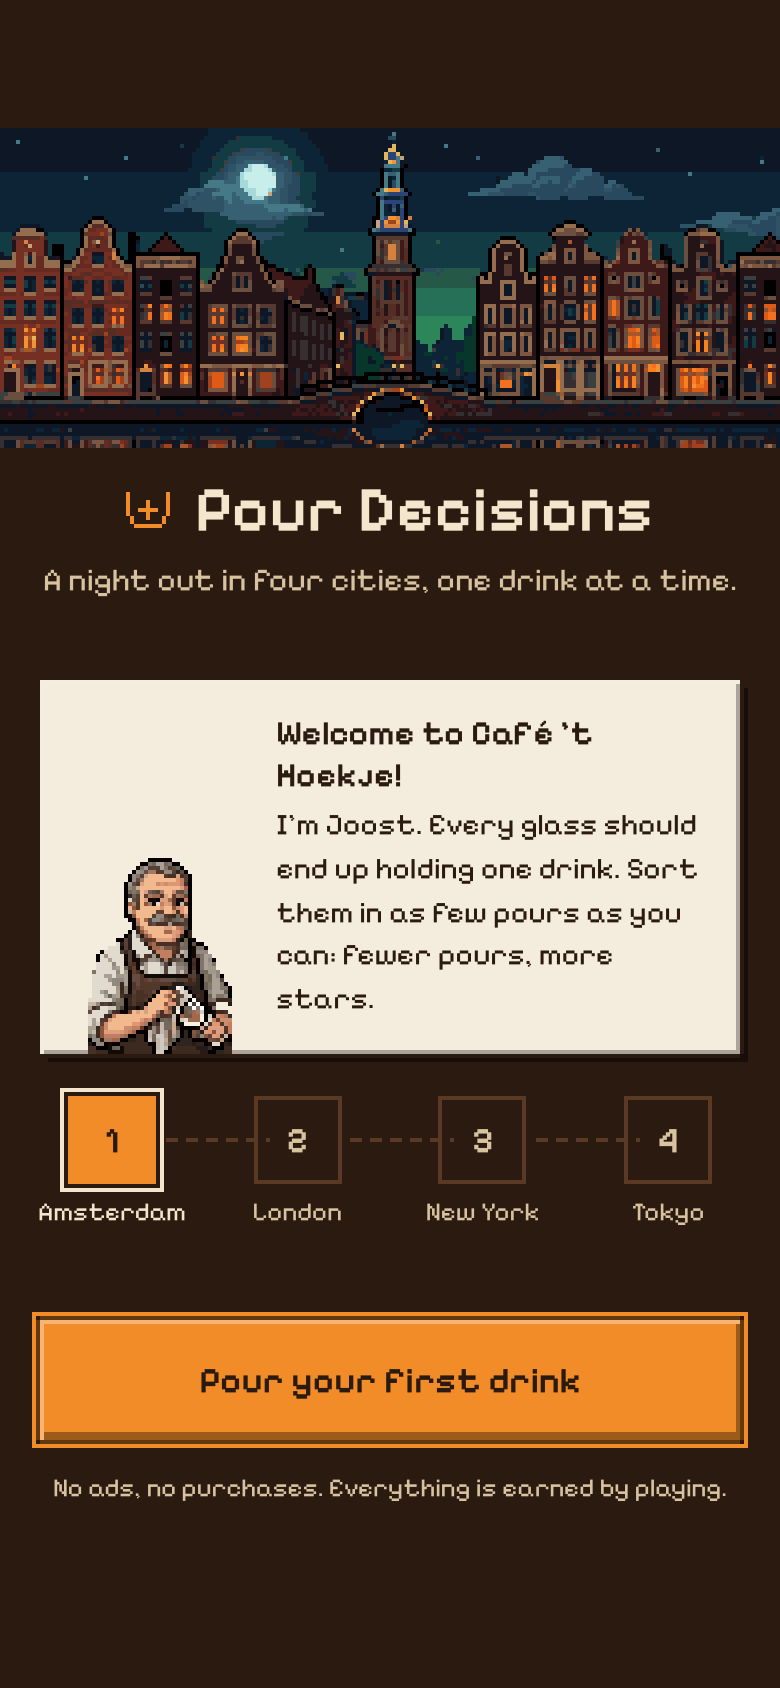
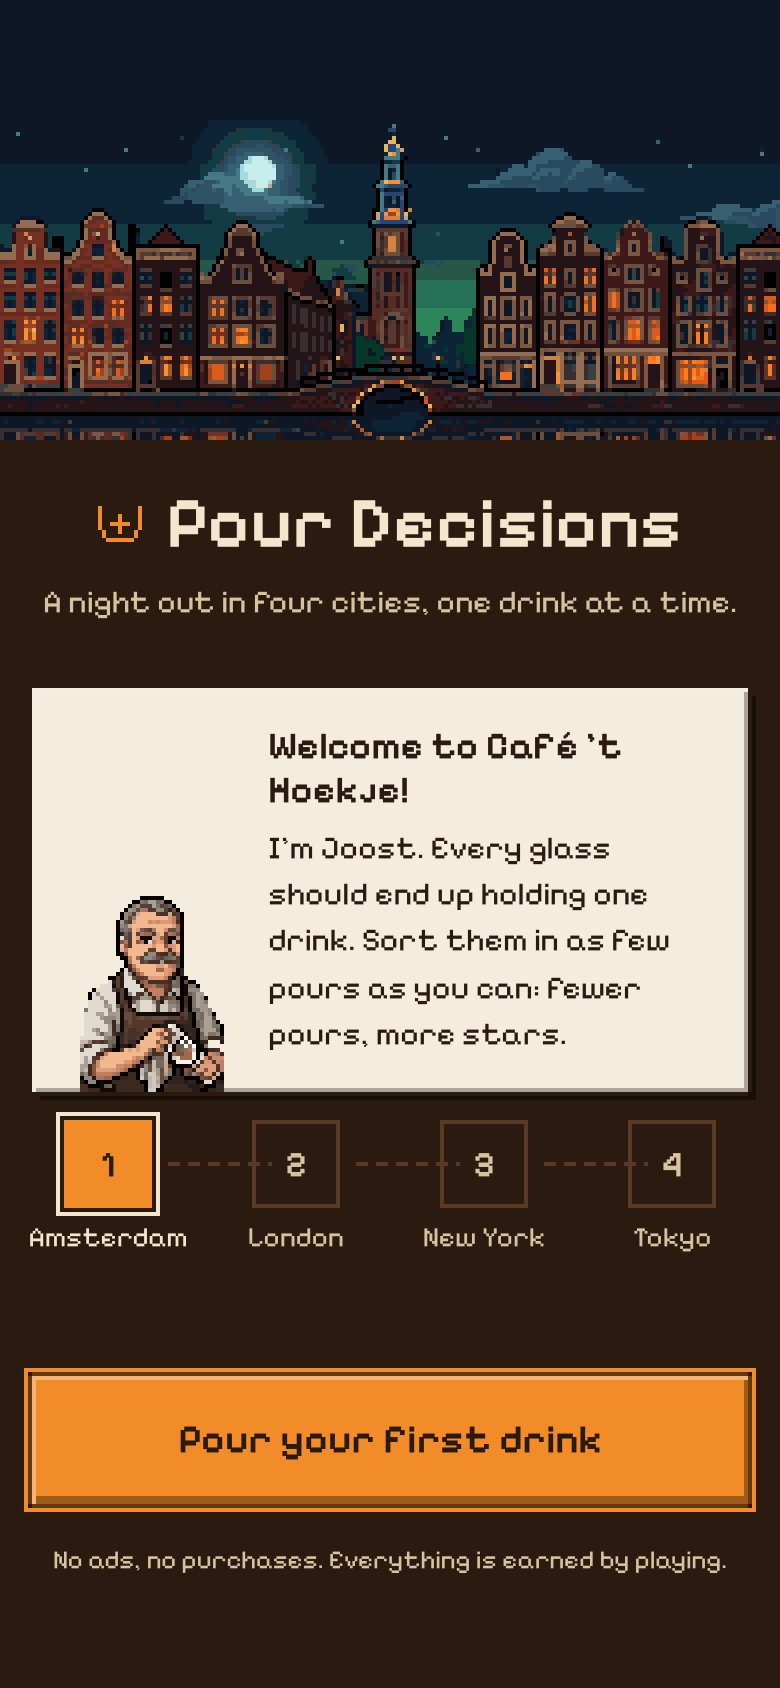
Welcome fills tall screens; tab note clears the tabs; reward boxes centred
The welcome's night scene now reaches the top and sides of the screen (the
city mirrored past its edges, its sky continued up), the type is larger, and
the button sits near the bottom of the screen however tall it is. The stage
exposes --bleed-t/l/r for layouts like this.

The 'opens after' note for a locked tab now sits above the tab bar on the
map too, instead of over the tabs. Two reward boxes on the complete screen
are centred.

diff --git a/apps/web/src/welcome.ts b/apps/web/src/welcome.ts
@@ -2,9 +2,14 @@ import { themes, type Theme } from '@pour/themes';
 import type { Progress } from './economy/save.js';
 import { esc, icons } from './icons.js';
 import { BARTENDER_NAMES, bartenderImg } from './pixel/bartenders.js';
-import { landmarkUrl } from './pixel/landmarks.js';
-import type { Stage } from './stage.js';
+import { PixelCanvas } from './pixel/canvas.js';
+import { landmarkFor } from './pixel/landmarks.js';
+import { dataUrl } from './pixel/scenes.js';
+import { ART, type Stage } from './stage.js';
 import { applyTheme } from './theme-css.js';
+
+/** Art pixels between the top of the stage and the top of the city scene. */
+const SKY_TOP = 30;
 
 /**
  * First launch: what the game is, in the first bartender's words, and one button that goes
@@ -12,6 +17,7 @@ import { applyTheme } from './theme-css.js';
  */
 export class WelcomeScreen {
   readonly el = document.createElement('div');
+  private offResize: (() => void) | null = null;
 
   constructor(
     private readonly stage: Stage,
@@ -27,7 +33,7 @@ export class WelcomeScreen {
     const k = t.colors;
     applyTheme(this.stage.el, t);
     this.stage.el.replaceChildren(this.el);
-    const scene = landmarkUrl(t.id);
+    const scene = await landmarkFor(t.id);
     const name = BARTENDER_NAMES[t.id];
     const logo = icons.glass(k.accent).replace('width="26" height="26"', 'width="40" height="40"');
     const route = themes
@@ -37,7 +43,7 @@ export class WelcomeScreen {
       )
       .join('');
     this.el.innerHTML = `
-      ${scene ? `<img class="wl-scene px-img" src="${scene}" width="390" height="160" alt="">` : ''}
+      <div class="wl-sky" aria-hidden="true"></div>
       <div class="wl-title">
         <h1>${logo}<span>Pour Decisions</span></h1>
         <p>A night out in four cities, one drink at a time.</p>
@@ -55,10 +61,45 @@ export class WelcomeScreen {
       location.hash = '#/level/1';
     });
     this.el.querySelector<HTMLElement>('.wl-go')!.focus();
+    if (scene) {
+      const draw = () => this.drawSky(scene);
+      draw();
+      this.offResize = this.stage.onResize(draw);
+    }
     this.el.dataset.ready = 'true';
   }
 
   destroy(): void {
+    this.offResize?.();
     this.el.remove();
+  }
+
+  /**
+   * The city at night, reaching the screen's top and sides: mirrored past its left and right
+   * edges (as on the map), and its sky continued up to the top of the screen.
+   */
+  private drawSky(scene: PixelCanvas): void {
+    const { l, r, t } = this.stage.bleed;
+    const above = t + SKY_TOP;
+    const w = scene.w + l + r;
+    const cv = new PixelCanvas(w, above + scene.h);
+    // The sky above is the scene's commonest top-row colour (a spire touching the top would
+    // otherwise be stretched up the screen).
+    const counts = new Map<string, number>();
+    for (let x = 0; x < scene.w; x++) {
+      const c = scene.get(x, 0);
+      if (c) counts.set(c, (counts.get(c) ?? 0) + 1);
+    }
+    const sky = [...counts].sort((a, b) => b[1] - a[1])[0]?.[0];
+    if (sky) cv.rect(0, 0, w, above, sky);
+    for (let x = 0; x < w; x++) {
+      let sx = x - l;
+      if (sx < 0) sx = -sx - 1;
+      if (sx >= scene.w) sx = 2 * scene.w - sx - 1;
+      sx = Math.max(0, Math.min(scene.w - 1, sx));
+      for (let y = 0; y < scene.h; y++) cv.px(x, above + y, scene.get(sx, y));
+    }
+    this.el.querySelector<HTMLElement>('.wl-sky')!.innerHTML =
+      `<img class="px-img" src="${dataUrl(cv)}" width="${w * ART}" height="${cv.h * ART}" alt="">`;
   }
 }

diff --git a/apps/web/src/style.css b/apps/web/src/style.css
@@ -2558,16 +2558,23 @@ input {
 .welcome-screen {
   color: var(--c-text);
 }
-.wl-scene {
+/* The night sky and the city reach the top and sides of the screen; the scene's street ends at
+   220 px on the stage. */
+.wl-sky {
   position: absolute;
-  left: 0;
-  top: 64px;
+  left: calc(-1 * var(--bleed-l, 0px));
+  top: calc(-1 * var(--bleed-t, 0px));
+  pointer-events: none;
+}
+.wl-sky img {
+  display: block;
+  image-rendering: pixelated;
 }
 .wl-title {
   position: absolute;
-  left: 20px;
-  right: 20px;
-  top: 236px;
+  left: 16px;
+  right: 16px;
+  top: 240px;
   text-align: center;
 }
 .wl-title h1 {
@@ -2575,21 +2582,21 @@ input {
   align-items: center;
   justify-content: center;
   gap: 12px;
-  font-size: 32px;
+  font-size: 36px;
   font-weight: 600;
 }
 .wl-title p {
-  margin-top: 6px;
+  margin-top: 8px;
   font-size: 16px;
   color: var(--c-muted);
 }
 .wl-host {
   position: absolute;
-  left: 20px;
-  right: 20px;
-  top: 340px;
-  min-height: 156px;
-  padding: 16px 16px 16px 118px;
+  left: 16px;
+  right: 16px;
+  top: 344px;
+  min-height: 172px;
+  padding: 18px 16px 18px 118px;
   --px-face: #f4ecdd;
   --px-edge: #2a1a10;
   color: #2a1a10;
@@ -2600,19 +2607,19 @@ input {
   bottom: 0;
 }
 .wl-host h2 {
-  font-size: 17px;
+  font-size: 19px;
   font-weight: 600;
 }
 .wl-host p {
-  margin-top: 4px;
-  font-size: 15px;
+  margin-top: 6px;
+  font-size: 16px;
   line-height: 1.45;
 }
 .wl-route {
   position: absolute;
-  left: 20px;
-  right: 20px;
-  top: 548px;
+  left: 16px;
+  right: 16px;
+  top: 560px;
   margin: 0;
   padding: 0;
   list-style: none;
@@ -2621,12 +2628,12 @@ input {
 }
 .wl-stop {
   position: relative;
-  width: 72px;
+  width: 76px;
   display: flex;
   flex-direction: column;
   align-items: center;
   gap: 6px;
-  font-size: 13px;
+  font-size: 14px;
   color: var(--c-muted);
 }
 /* A dashed road between the stops. */
@@ -2658,19 +2665,20 @@ input {
     0 0 0 2px #2a1a10,
     0 0 0 4px var(--c-text);
 }
+/* The button sits near the bottom of the screen, however tall it is. */
 .wl-go {
   position: absolute;
-  left: 20px;
-  right: 20px;
-  top: 660px;
-  height: 60px;
-  font-size: 18px;
+  left: 16px;
+  right: 16px;
+  bottom: calc(92px - var(--stick-b, 0px));
+  height: 64px;
+  font-size: 20px;
 }
 .wl-note {
   position: absolute;
-  left: 20px;
-  right: 20px;
-  top: 736px;
+  left: 16px;
+  right: 16px;
+  bottom: calc(56px - var(--stick-b, 0px));
   text-align: center;
   font-size: 13px;
   color: var(--c-muted);
@@ -2794,6 +2802,7 @@ input {
   position: absolute;
   left: 20px;
   right: 20px;
+  /* Just above the tab bar (84 px tall, moved down by --stick-b with the screen's bottom). */
   bottom: calc(96px - var(--stick-b, 0px));
   z-index: 4;
   padding: 10px 12px;
@@ -2849,4 +2858,13 @@ input {
 }
 .an-card .btn {
   width: 100%;
+}
+
+/* Reward boxes stay centred when there are fewer than three. */
+.cp-rewards {
+  display: flex;
+  justify-content: center;
+}
+.cp-rewards .cp-card {
+  flex: 0 0 calc((100% - 20px) / 3);
 }

diff --git a/apps/web/src/tabbar.ts b/apps/web/src/tabbar.ts
@@ -45,12 +45,13 @@ function explainLockedTabs(): void {
 function onLockedTab(e: MouseEvent): void {
   const tab = (e.target as Element | null)?.closest<HTMLElement>('.tab.is-locked');
   if (!tab) return;
-  const bar = tab.closest('.tabbar');
-  bar?.parentElement?.querySelector('.tab-note')?.remove();
+  // On the screen itself, not inside the bar's panel (the map's), so it sits above the bar.
+  const host = tab.closest('.screen') ?? document.body;
+  host.querySelector('.tab-note')?.remove();
   const note = document.createElement('div');
   note.className = 'tab-note';
   note.setAttribute('role', 'status');
   note.textContent = `${tab.querySelector('span:not(.tab-icon):not(.tab-lock)')?.textContent ?? ''} opens ${tab.dataset.opens}.`;
-  bar?.insertAdjacentElement('beforebegin', note);
+  host.appendChild(note);
   setTimeout(() => note.remove(), 2600);
 }

diff --git a/apps/web/src/stage.ts b/apps/web/src/stage.ts
@@ -87,6 +87,10 @@ export function createStage(root: HTMLElement): Stage {
     const below =
       window.innerHeight - f.top - STAGE_H * f.scale - (parseFloat(getComputedStyle(safe).paddingBottom) || 0);
     el.style.setProperty('--stick-b', `${Math.max(0, Math.floor(below / f.scale / ART)) * ART}px`);
+    // The screen beyond the stage's top and sides, in stage px, for layouts that reach the edges.
+    el.style.setProperty('--bleed-t', `${f.bleed.t * ART}px`);
+    el.style.setProperty('--bleed-l', `${f.bleed.l * ART}px`);
+    el.style.setProperty('--bleed-r', `${f.bleed.r * ART}px`);
     listeners.forEach((fn) => fn());
   };
   window.addEventListener('resize', fit);
